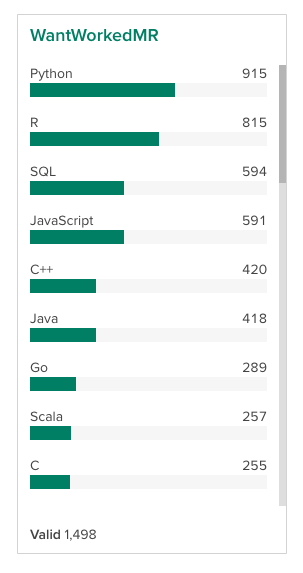
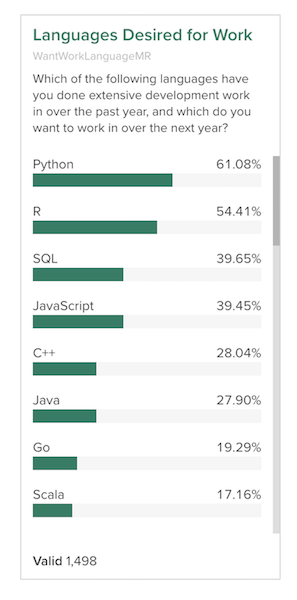
Fix up new vignette

diff --git a/inst/doc/crunch.md b/inst/doc/crunch.md
@@ -1,6 +1,6 @@
 ---
 title: "Getting Started"
-description: "Here's how to log in and get started working with the Crunch cloud data platform."
+description: "Here's how to log in to Crunch, import some data, and do some basic cleaning so that you have a beautiful, easily explorable dataset."
 output: rmarkdown::html_vignette
 vignette: >
   %\VignetteIndexEntry{Getting Started}
@@ -237,11 +237,6 @@ Now we can use that selection in `makeArray`:
 ds$ImportantHiring <- makeArray(ds[imphire], name = "Importance in Hiring Process")
 ```
 
-```r
-webApp(ds$ImportantHiring)
-```
-![plot of chunk View array screen](images/crunch-importantHiringCA.png)
-
 The variables we included in the array have been converted into subvariables of the categorical array, and are still accessible using the `subvariables()` function.
 
 
@@ -292,6 +287,12 @@ subvariables(ds$ImportantHiring)
 ##   $`Track record of getting things done`
 ```
 
+
+```r
+webApp(ds$ImportantHiring)
+```
+![plot of chunk View array screen](images/crunch-importantHiringCA.png)
+
 #### Multiple Response
 
 Crunch also has a special variable type for multiple-response data. These are survey questions that give users a set of options and allow them to select more than one of them. An example of this from the Stack Overflow survey is asking which language a respondent wanted to work with. In this dataset, the responses are stored in a single column with each language delimited by semicolon:
@@ -321,16 +322,43 @@ ds$WantWorkLanguageMR <- makeMRFromText(ds$WantWorkLanguage,
     name = "Languages Desired for Work",
     description = description(ds$WantWorkLanguage))
 ```
-![plot of chunk unnamed-chunk-6](images/wantWorkMR.png)
 
-The variable card now shows the number of times each language was selected, the sum of these numbers will be bigger than the number of respondents because people were allowed to select more than one language. We can reorder the subvariables to make this card easier to read. Let's sort them by frequency.
+To see what this looks like, let's do a simple `table()` of the new variable and see the counts:
+
+
+```r
+table(ds$WantWorkLanguageMR)
+```
+
+```
+## WantWorkLanguageMR
+##            VBA     TypeScript           Java          Scala     JavaScript 
+##             44            170            418            257            591 
+##           Perl            Lua         Matlab         Erlang       Assembly 
+##             65             69            120             67             89 
+##         VB.NET         Python    Common Lisp           Dart   CoffeeScript 
+##             24            915             44             22             51 
+##         Elixir           Ruby         Groovy              C             F# 
+##             70            143             43            255             88 
+##           Hack            C++    Objective-C              R        Clojure 
+##             18            420             65            815             82 
+##           Rust          Swift          Julia        Haskell Visual Basic 6 
+##            105            148            155            150             23 
+##            SQL             Go            PHP      Smalltalk 
+##            594            289            149             24
+```
+
+Since this is multiple-response data, the sum of these numbers may be bigger than the number of respondents because people were allowed to select more than one.
+
+We can reorder the subvariables to make this card easier to read. Let's sort them by frequency.
 
 
 ```r
 counts <- sort(table(ds$WantWorkLanguageMR), decreasing = TRUE)
 subvariables(ds$WantWorkLanguageMR) <- subvariables(ds$WantWorkLanguageMR)[names(counts)]
 ```
-![plot of chunk unnamed-chunk-7](images/WantWorkMRReodered.png)
+
+![plot of chunk unnamed-chunk-6](images/WantWorkMRReodered.png)
 
 #### Conclusion
 
@@ -339,13 +367,13 @@ This vignette has gone through some of the basics of working with crunch in R in
 
 
 
-* [Variables](variables.md): cleaning and defining variable metadata
-* [Array variables](array-variables.md): how to create and manipulate categorical-array and multiple-response variables
-* [Variable organization](variable-order.md): defining a hierarchy and arranging variables within it
-* [Transformations and derivations](derive.md): alter values within a dataset and create new variables as a function of others
-* [Computing on Crunch data](analyze.md): crosstabbing and more
-* [Filtering](filters.md): subsetting data, both in your R session and in the web interface
-* [Downloading and exporting](export.md): how to pull data from the server, both for use in R and file export
-* [Subtotals and headings](subtotals.md): how to set and get subtotals and headings for categorical variables
-* [Crunch internals](crunch-internals.md): an introduction to the Crunch API and concepts to help you make more complex and more efficient queries
-* [Category objects](abstract-categories.md): an introduction to the S4 classes that power categories and category-like representations in the package
+* [Variables](variables.html): cleaning and defining variable metadata
+* [Array variables](array-variables.html): how to create and manipulate categorical-array and multiple-response variables
+* [Variable organization](variable-order.html): defining a hierarchy and arranging variables within it
+* [Transformations and derivations](derive.html): alter values within a dataset and create new variables as a function of others
+* [Computing on Crunch data](analyze.html): crosstabbing and more
+* [Filtering](filters.html): subsetting data, both in your R session and in the web interface
+* [Downloading and exporting](export.html): how to pull data from the server, both for use in R and file export
+* [Subtotals and headings](subtotals.html): how to set and get subtotals and headings for categorical variables
+* [Crunch internals](crunch-internals.html): an introduction to the Crunch API and concepts to help you make more complex and more efficient queries
+* [Category objects](abstract-categories.html): an introduction to the S4 classes that power categories and category-like representations in the package
